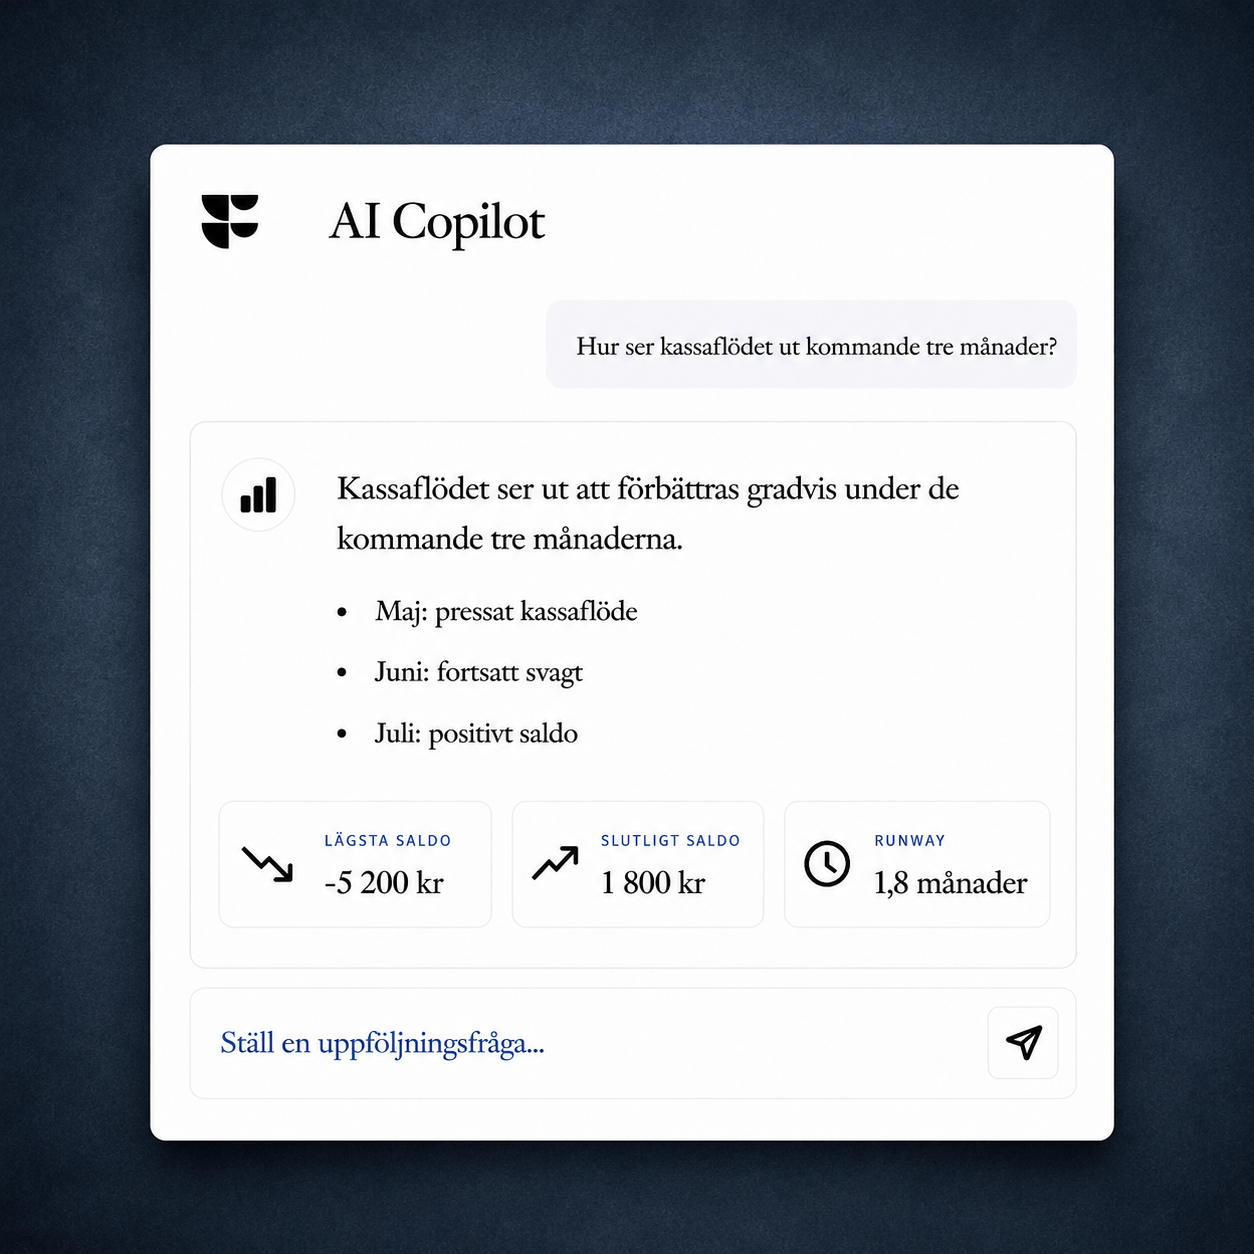
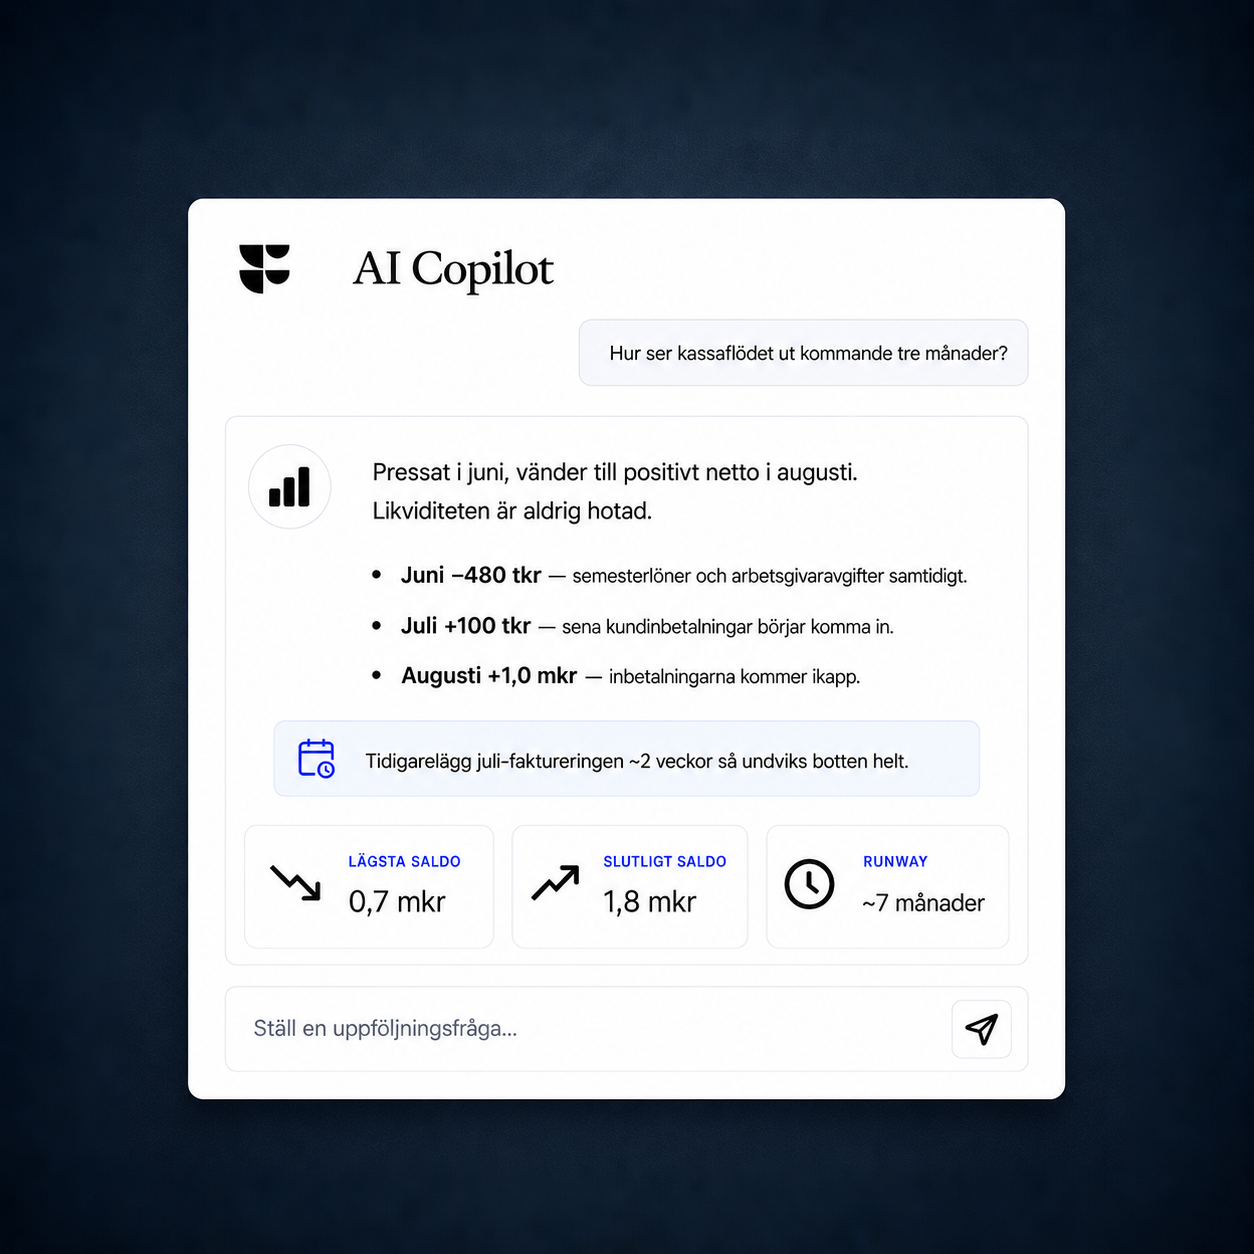
v2: rename CTA to "Boka demo", simplify nav, optimize feature assets
- Change "Boka samtal" CTA to "Boka demo" (Nav + solutionPagesText)
- Remove Lösningar mega-menu from Nav
- Tweak base.css / landing.css styling
- Recompress feature PNGs and add WebP variants (copilot, forecast, rapportering)

diff --git a/src/components/v2/shared/Nav.tsx b/src/components/v2/shared/Nav.tsx
@@ -140,7 +140,7 @@ export default function Nav() {
                       30 min.
                     </span>
                     <a className="btn" href="/boka-samtal">
-                      Boka samtal
+                      Boka demo
                     </a>
                   </div>
                 </div>
@@ -258,93 +258,6 @@ export default function Nav() {
               </div>
             </div>
           </div>
-          <div className="nav-mega" data-mega>
-            <button
-              className="nav-link nav-trigger"
-              type="button"
-              aria-expanded="false"
-              aria-controls="megaLosningar"
-            >
-              Lösningar
-              <svg width="10" height="10" viewBox="0 0 10 10">
-                <path fill="currentColor" d="M5 7L1 3h8z" />
-              </svg>
-            </button>
-            <div
-              className="mega-panel"
-              id="megaLosningar"
-              role="menu"
-              aria-hidden="true"
-            >
-              <div className="mega-grid">
-                <div className="mega-cats">
-                  <div className="mega-cat">
-                    <div className="mega-cat-l">Efter roll</div>
-                    <div className="mega-cat-d">
-                      För team som vill växa utan att bygga ekonomi internt.
-                    </div>
-                    <div className="mega-cat-items">
-                      <a className="mega-item" href="/losningar/ceo-founders">
-                        <div className="mega-item-t">CEO &amp; Founders</div>
-                        <div className="mega-item-b">
-                          Beslutsunderlag utan en intern finance-funktion.
-                        </div>
-                      </a>
-                      <a className="mega-item" href="/losningar/cfo-finance">
-                        <div className="mega-item-t">CFO &amp; Finance Team</div>
-                        <div className="mega-item-b">
-                          Lämna över det operativa. Behåll strategin.
-                        </div>
-                      </a>
-                    </div>
-                  </div>
-                  <div className="mega-cat">
-                    <div className="mega-cat-l">Efter bransch</div>
-                    <div className="mega-cat-d">
-                      Anpassat upplägg för er affärsmodell.
-                    </div>
-                    <div className="mega-cat-items">
-                      <a className="mega-item" href="/losningar/saas-tech">
-                        <div className="mega-item-t">SaaS / Tech</div>
-                        <div className="mega-item-b">
-                          Runway, MRR och scenarier i realtid.
-                        </div>
-                      </a>
-                      <a className="mega-item" href="/losningar/konsult-tjanster">
-                        <div className="mega-item-t">Konsult &amp; Tjänster</div>
-                        <div className="mega-item-b">
-                          Beläggning, marginal och kassaflöde.
-                        </div>
-                      </a>
-                      <a className="mega-item" href="/losningar/ehandel">
-                        <div className="mega-item-t">E-handel</div>
-                        <div className="mega-item-b">
-                          Marginaler, lager och likviditet.
-                        </div>
-                      </a>
-                    </div>
-                  </div>
-                </div>
-                <a className="mega-feature" href="/#losningar">
-                  <div className="mega-feature-img">
-                    <img
-                      src="/v2/assets/uc-founders.png"
-                      alt="Bolag som lämnat över ekonomin"
-                    />
-                  </div>
-                  <div className="mega-feature-body">
-                    <div className="mega-feature-t">
-                      Bolag som vill växa utan att bygga ekonomi internt
-                    </div>
-                    <div className="mega-feature-b">
-                      Se hur founders, CFOs och e-handlare jobbar med MinCFO
-                      som sin ekonomifunktion.
-                    </div>
-                  </div>
-                </a>
-              </div>
-            </div>
-          </div>
           <a className="nav-link" href="/#kundcase">
             Kundcase
           </a>
@@ -361,7 +274,7 @@ export default function Nav() {
             Logga in
           </button>
           <a className="btn" href="/boka-samtal">
-            Boka samtal
+            Boka demo
           </a>
         </div>
       </div>

diff --git a/src/components/v2/styles/landing.css b/src/components/v2/styles/landing.css
@@ -292,6 +292,10 @@
     display: block;
     transition: transform .4s ease;
   }
+  /* Copilot asset has more navy padding around the card; zoom in slightly
+     so its white card matches the footprint of the other two cards. The card
+     also sits ~1.8% low in the source PNG, so nudge it up to center it. */
+  .feat-card--copilot .feat-art img { transform: translateY(-1.8%) scale(1.08); }
 
   /* floating UI snippet on top of card bg */
   .feat-snippet {
@@ -311,6 +315,7 @@
   .feat-snippet--copilot { width: min(86%, 340px); padding: 12px 14px; }
   .feat-snippet--forecast { width: min(82%, 300px); }
   .feat-card:hover .feat-art img { transform: scale(1.02); }
+  .feat-card--copilot:hover .feat-art img { transform: translateY(-1.8%) scale(1.10); }
   .feat-body {
     padding: 0 4px;
   }
@@ -410,7 +415,17 @@
   }
   @media (max-width: 1024px) { .uc-grid { grid-template-columns: repeat(2, 1fr); } }
   @media (max-width: 540px) { .uc-grid { grid-template-columns: 1fr; } }
-  .uc-card { display: flex; flex-direction: column; }
+  .uc-card {
+    display: flex;
+    flex-direction: column;
+    color: inherit;
+    text-decoration: none;
+  }
+  a.uc-card { transition: transform 0.2s ease; }
+  a.uc-card:hover { transform: translateY(-3px); }
+  a.uc-card:hover .uc-photo img { transform: scale(1.03); }
+  a.uc-card:hover .uc-name { text-decoration: underline; text-underline-offset: 3px; }
+  a.uc-card .uc-photo img { transition: transform 0.4s ease; }
   .uc-photo {
     aspect-ratio: 4/5;
     border-radius: 3px;

diff --git a/src/components/v2/styles/base.css b/src/components/v2/styles/base.css
@@ -213,7 +213,7 @@
     line-height: 1.25;
   }
 
-  /* body / mono text — small, technical, gives big size contrast against titles */
+  /* body text — Bronn lookalike: Geist sans (free, already loaded) approximating ABC Diatype */
   .mv2-root.type-sumary .hero-sub,
   .mv2-root.type-sumary .feat-body p,
   .mv2-root.type-sumary .uc-body,
@@ -224,12 +224,12 @@
   .mv2-root.type-sumary .kc-intro,
   .mv2-root.type-sumary .trust-body,
   .mv2-root.type-sumary .footer-brand p {
-    font-family: 'Fragment Mono', ui-monospace, monospace;
-    font-size: 13.5px;
-    line-height: 1.6;
-    color: #6B6560;
+    font-family: var(--font-geist-sans), system-ui, -apple-system, sans-serif;
+    font-size: 16px;
+    line-height: 1.625;
+    color: #6B6B6B;
     text-transform: none;
-    letter-spacing: 0;
+    letter-spacing: normal;
   }
   .mv2-root.type-sumary .brand-word {
     font-family: system-ui, -apple-system, 'Segoe UI', Roboto, sans-serif;

diff --git a/src/app/layout.tsx b/src/app/layout.tsx
@@ -65,9 +65,24 @@ export default async function RootLayout({
   children: React.ReactNode;
 }>) {
   const locale = await getLocale();
+  const shared = getSharedText(locale);
+  const siteUrl = process.env.NEXT_PUBLIC_SITE_URL ?? "https://mincfo.com";
+  const orgJsonLd = {
+    "@context": "https://schema.org",
+    "@type": "Organization",
+    name: "MinCFO",
+    url: siteUrl,
+    logo: `${siteUrl}/icon.svg`,
+    description: shared.siteMeta.description,
+    areaServed: { "@type": "Country", name: "Sweden" },
+  };
   return (
     <html lang={HTML_LANG[locale]}>
       <body className={`${geistSans.variable} ${geistMono.variable}`}>
+        <script
+          type="application/ld+json"
+          dangerouslySetInnerHTML={{ __html: JSON.stringify(orgJsonLd) }}
+        />
         <LocaleProvider initialLocale={locale}>
           <MotionProvider>
             <ContactReturnRestore />
